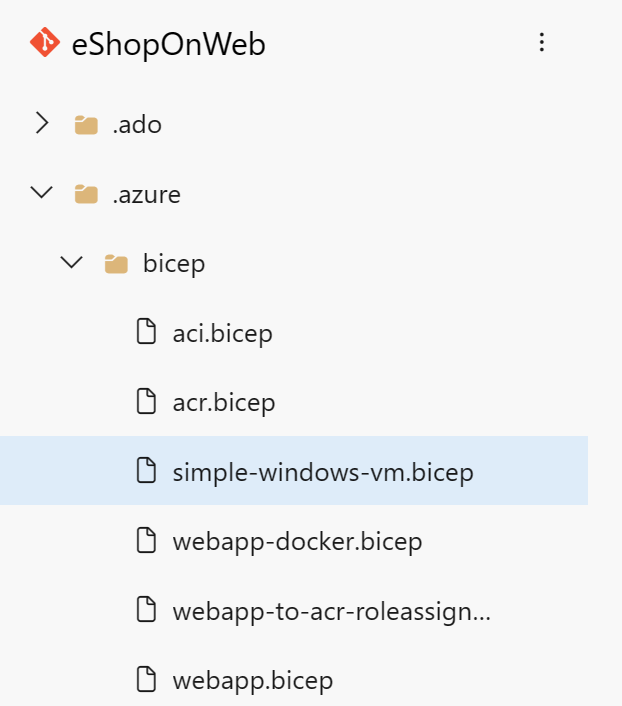
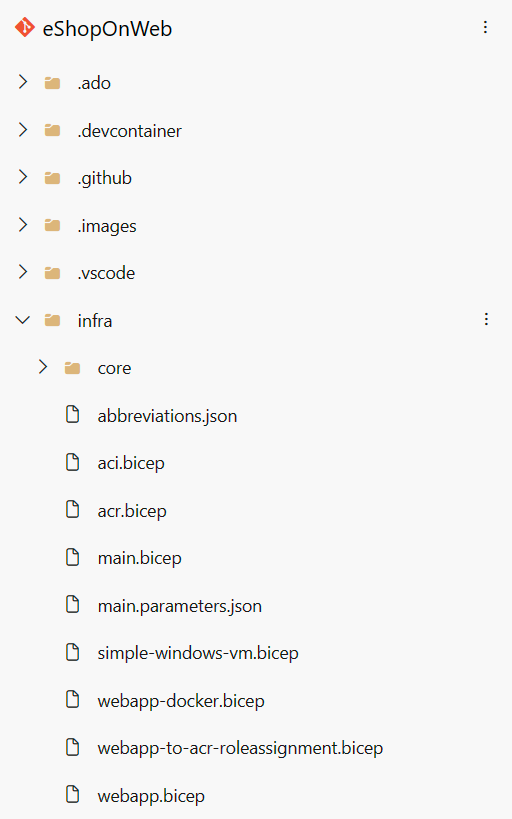
M06-L12-EX01-TASK01-STEP01: The folder for the bicep template is not updated

diff --git a/Instructions/Labs/AZ400_M06_L12_Azure_Deployments_Using_Resource_Manager_Templates.md b/Instructions/Labs/AZ400_M06_L12_Azure_Deployments_Using_Resource_Manager_Templates.md
@@ -70,7 +70,7 @@ In this lab, you will review an Azure Bicep template and simplify it using a reu
 
 In this task, you will use Visual Studio Code to create an Azure Bicep template
 
-1. In the browser tab you have your Azure DevOps project open, navigate to **Repos** and **Files**. Open the `.azure\bicep` folder and find the `simple-windows-vm.bicep` file.
+1. In the browser tab you have your Azure DevOps project open, navigate to **Repos** and **Files**. Open the `infra` folder and find the `simple-windows-vm.bicep` file.
 
    ![Simple-windows-vm.bicep file](./images/m06/browsebicepfile.png)
 
